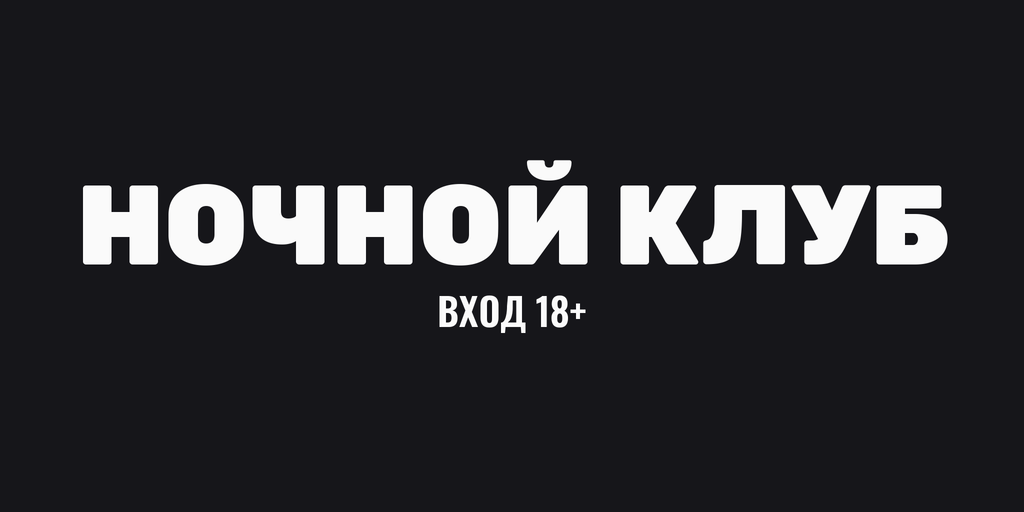
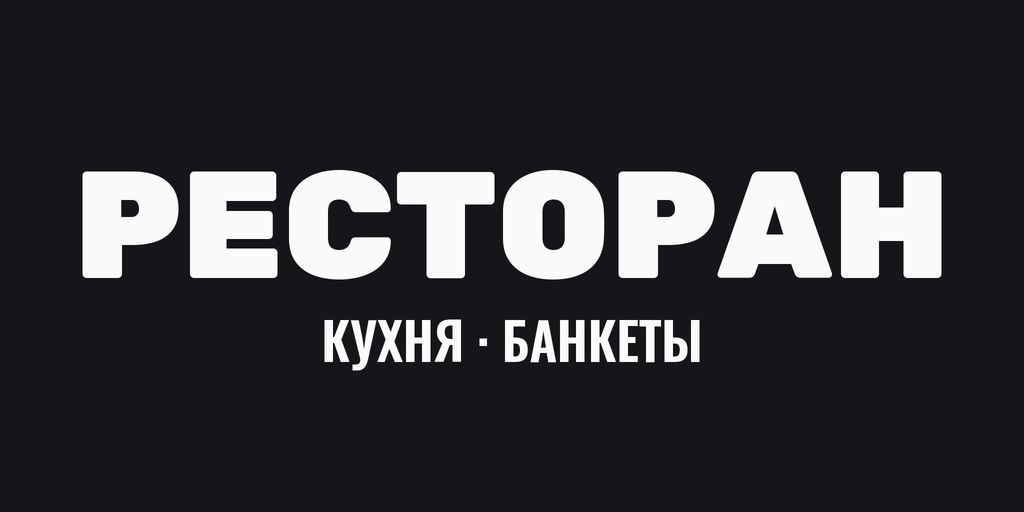
исправь сборку hw1_15_build2: шейдер без имени пресета берёт пресет у тёзки
Sollumz не сохраняет модель, если у шейдера preset_filename = None (AssertionError) —
в hw1_15_build2 один из шейдеров default не распознался; подставляем default.sps от такого же шейдера.
плюс картинка вывески unicorn: ресторан вместо ночного клуба (из 7f80ecc, не была закоммичена).

Changed region(s): [[0.0625, 0.3125, 0.9375, 0.7188]]

diff --git a/setup/maps/retex_build_blender.py b/setup/maps/retex_build_blender.py
@@ -50,6 +50,13 @@ for j in jobs:
             print('KAVKAZ нет текстур', kind, name, list(j['tex'])[:3], flush=True)
             skipped += 1
             continue
+        if kind == 'ydr':
+            # у части шейдеров карты имя пресета не распознаётся (None) — Sollumz такое не сохраняет (AssertionError);
+            # берём пресет у шейдера с тем же именем (hw1_15_build2: default → default.sps)
+            known = {s.name: s.preset_filename for s in a.shader_group.shaders if s.preset_filename}
+            for s in a.shader_group.shaders:
+                if not s.preset_filename and s.name in known:
+                    s.preset_filename = known[s.name]
         save_asset(a, target, OUT, name)
         done += 1
         print('KAVKAZ ok', kind, name, n, flush=True)
